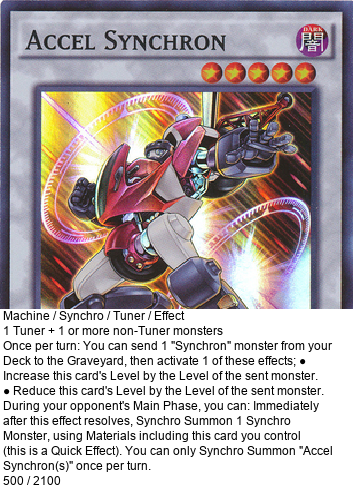
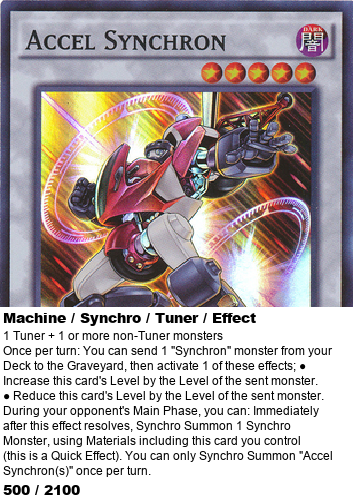
Accel Synchron looks good

Changed region(s): [[0.0, 0.5988, 0.9348, 0.988], [0.8725, 0.5988, 1.0, 0.6287]]

diff --git a/pillow/card.py b/pillow/card.py
@@ -2,9 +2,12 @@ from PIL import Image, ImageDraw, ImageFont
 import os, json, textwrap
 
 fnt = ImageFont.truetype('/Library/Fonts/Arial.ttf', 12)
+fnt_black = ImageFont.truetype('/Library/Fonts/Arial Black.ttf', 14)
 char_limit = 60
 ascent, descent = fnt.getmetrics()
 line_height = ascent + descent + 1
+ascent_black, descent_black = fnt_black.getmetrics()
+line_height_black = ascent_black + descent_black + 1
 
 def add_text(text, stats, types, image, output_name):
 
@@ -16,14 +19,15 @@ def add_text(text, stats, types, image, output_name):
     text_content = " ".join(text_lines)
     lines = textwrap.wrap(text_content, char_limit)
 
-  lines = [types] + lines + [stats]
   width, height = image.size
-  box_height = (len(lines))*(ascent + descent + 2)
+  box_height = (len(lines))*line_height + 2 * line_height_black
   text_box = "\n".join(lines)
 
   draw = ImageDraw.Draw(image)
   draw.rectangle([(0, height - box_height), (width, height)], (255, 255, 255))
-  draw.text((3, height-box_height), text_box, font=fnt, fill=(0, 0, 0))
+  draw.text((3, height - box_height), types, font=fnt_black, fill=(0, 0, 0))
+  draw.text((3, height - box_height + line_height_black), text_box, font=fnt, fill=(0, 0, 0))
+  draw.text((3, height - line_height_black), stats, font=fnt_black, fill=(0, 0, 0))
 
   image.save(output_name)
 
